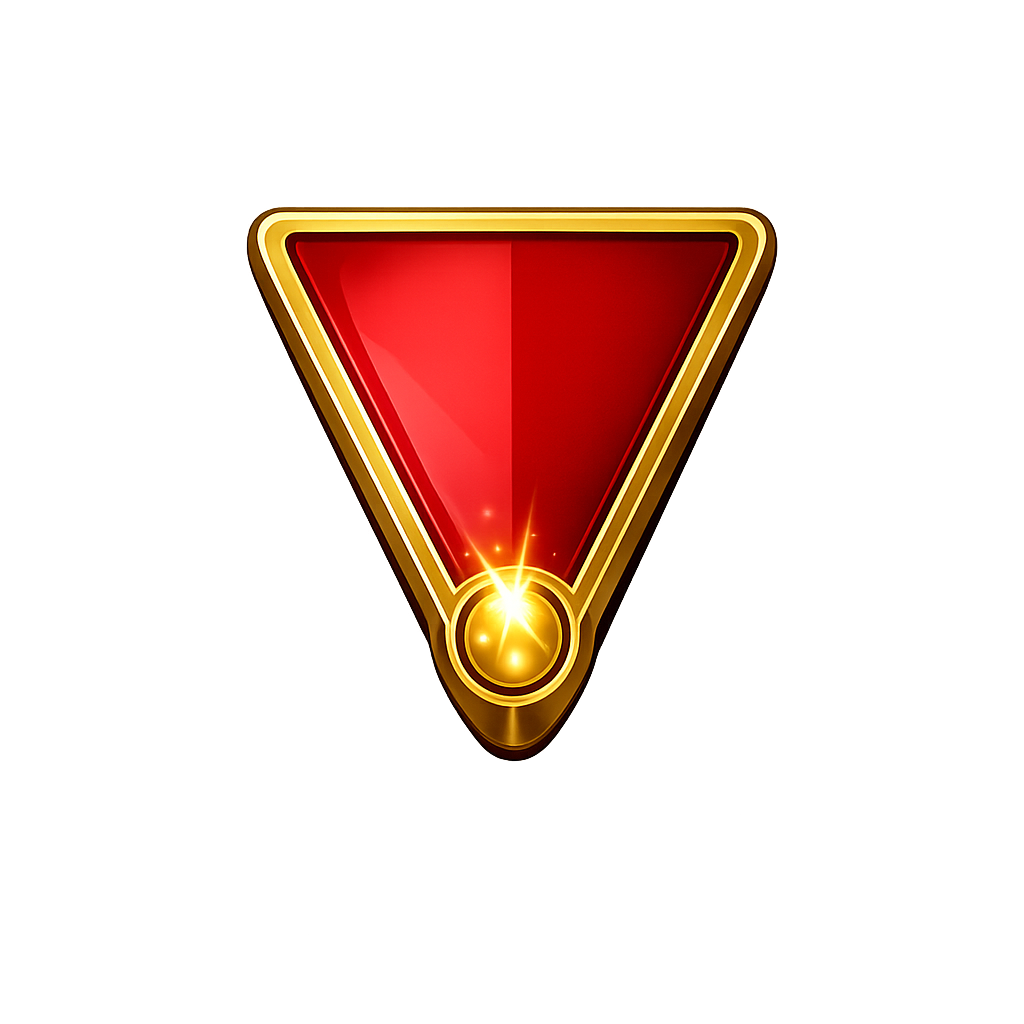
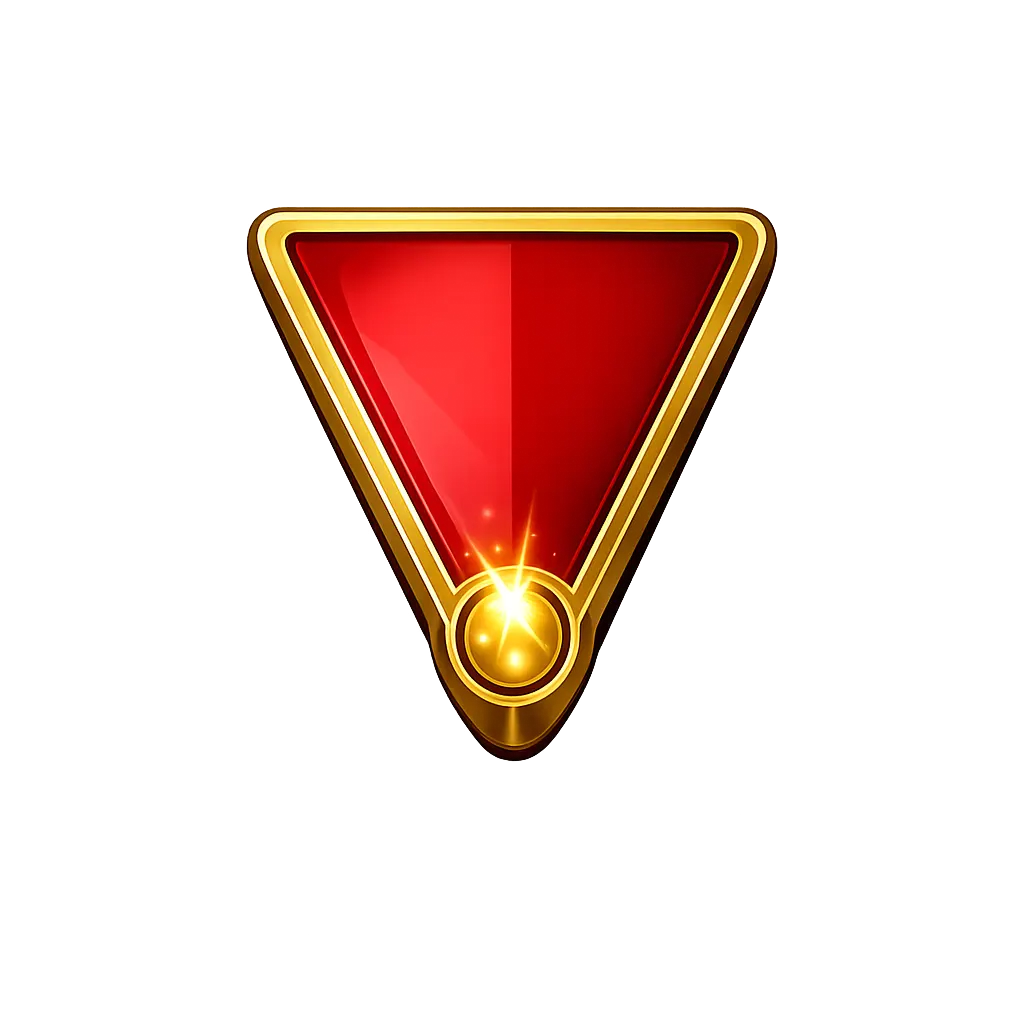
compressed file size

diff --git a/server.js b/server.js
@@ -7,8 +7,8 @@ const mongoose = require("mongoose");
 app.use(express.json());
 app.use(express.static("public"));
 
-// 🎨 Colors (6 segments)
-const colors = ["Red", "white", "green", "yellow", "purple", "pink"];
+// 🎨 Colors (6 segments) - UPDATED ORDER
+const colors = ["Red", "Purple", "White", "pink", "Green", "Yellow"];
 
 const ADMIN_PASSWORD = "admin123";
 
@@ -104,7 +104,7 @@ app.post("/play", async (req, res) => {
       });
     }
 
-    // 🎡 Spin result
+    // 🎡 Spin result (0 to 5 index)
     const randomIndex = Math.floor(Math.random() * colors.length);
     const randomColor = colors[randomIndex];
 
@@ -123,7 +123,7 @@ app.post("/play", async (req, res) => {
       name,
       zones,
       color: randomColor,
-      index: randomIndex // 🔥 used for wheel rotation
+      index: randomIndex // 🔥 0=Red,1=White,2=Green,3=Yellow,4=Purple,5=Pink
     });
 
   } catch (err) {

diff --git a/public/index.html b/public/index.html
@@ -521,7 +521,7 @@ async function loginToAdmin() {
   }
 }
 
-// 🎡 PLAY FUNCTION
+// 🎡 PLAY FUNCTION - UPDATED for 6 colors (60° each)
 async function play() {
 
     let name = document.getElementById("name").value;
@@ -550,9 +550,13 @@ async function play() {
             return;
         }
 
-        // 🎡 SPIN
+        // 🎡 SPIN - 6 colors means each segment is 60°
+        // 6 full rotations (2160°) + (index × 60°) to land on correct color
+        const SEGMENT_DEGREES = 60;  // 360° ÷ 6 colors = 60° per color
+        const FULL_ROTATIONS = 360 * 6; // 6 full spins
+        let degrees = FULL_ROTATIONS + (data.index * SEGMENT_DEGREES);
+        
         const wheel = document.getElementById("wheel");
-        let degrees = 360 * 6 + (data.index * (360 / 6));
         wheel.style.transform = `rotate(${degrees}deg)`;
 
         // 🎉 SHOW RESULT AFTER SPIN
